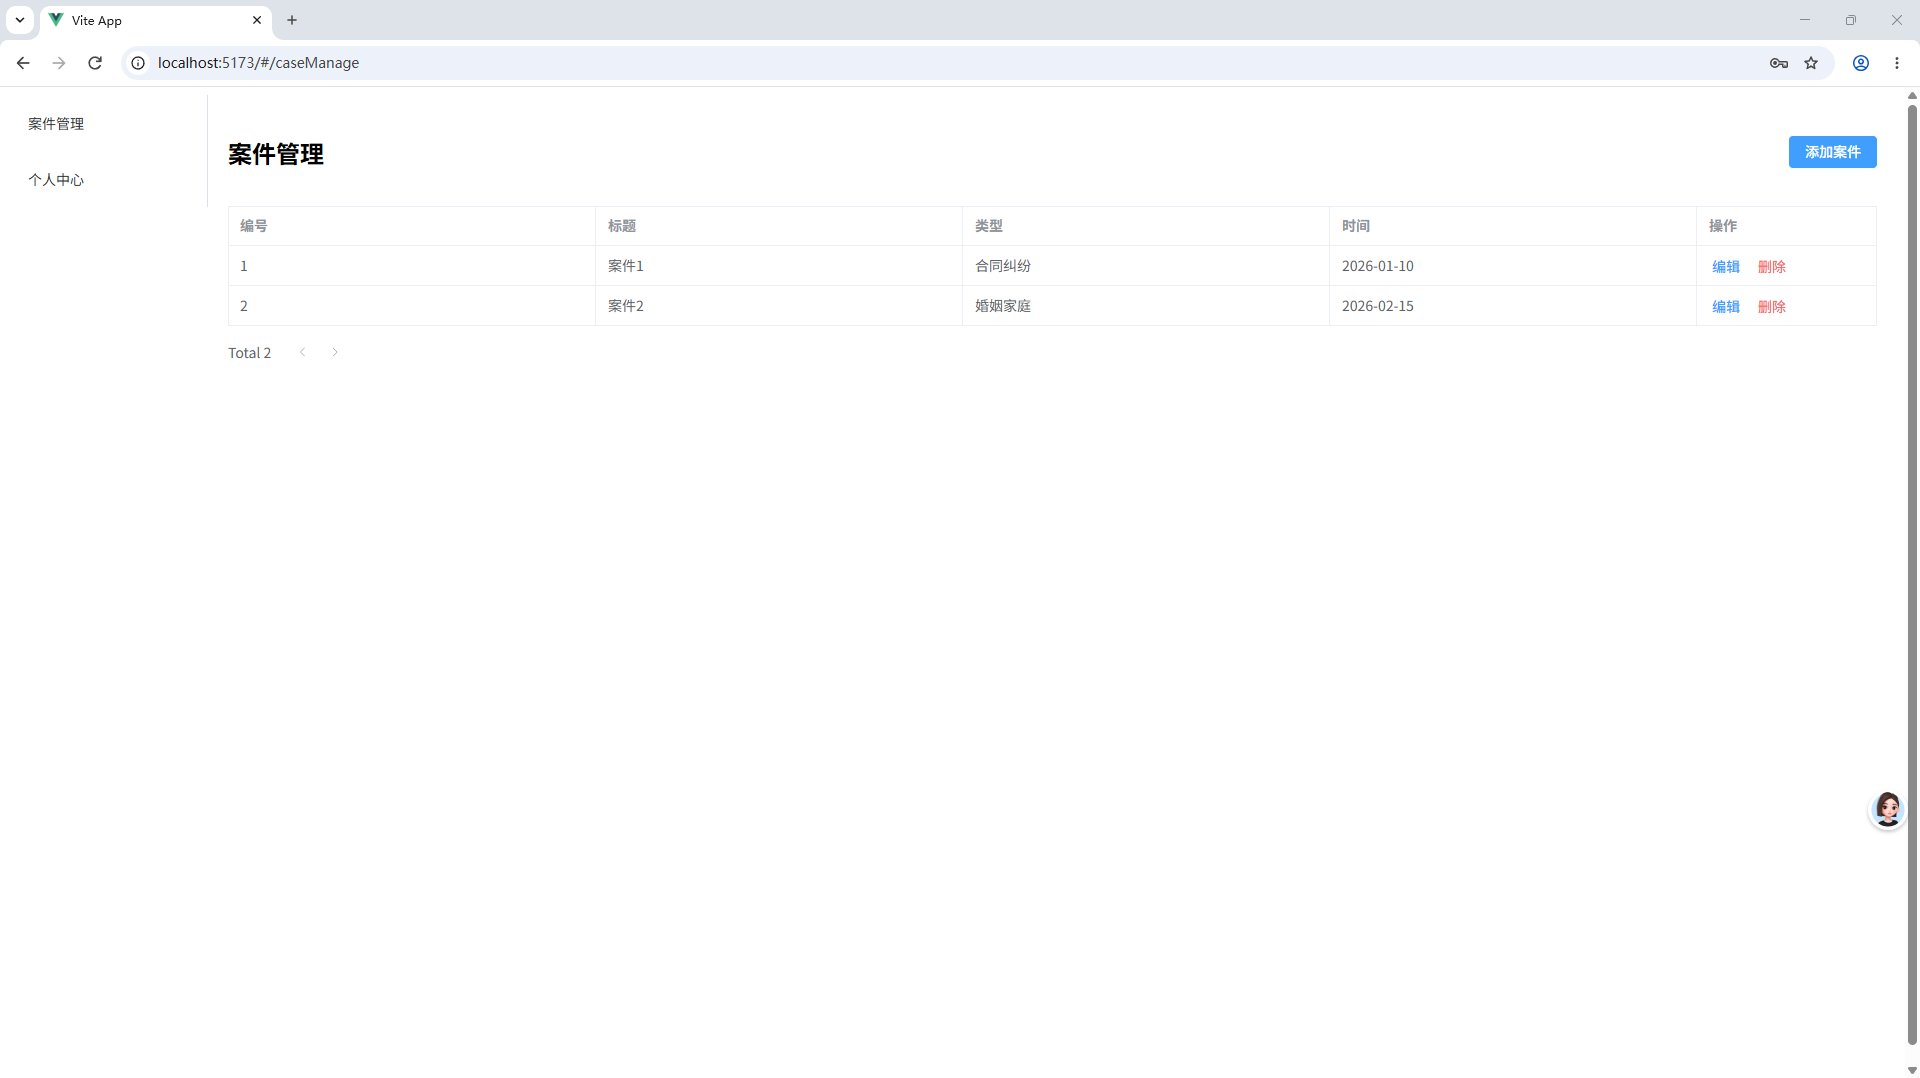
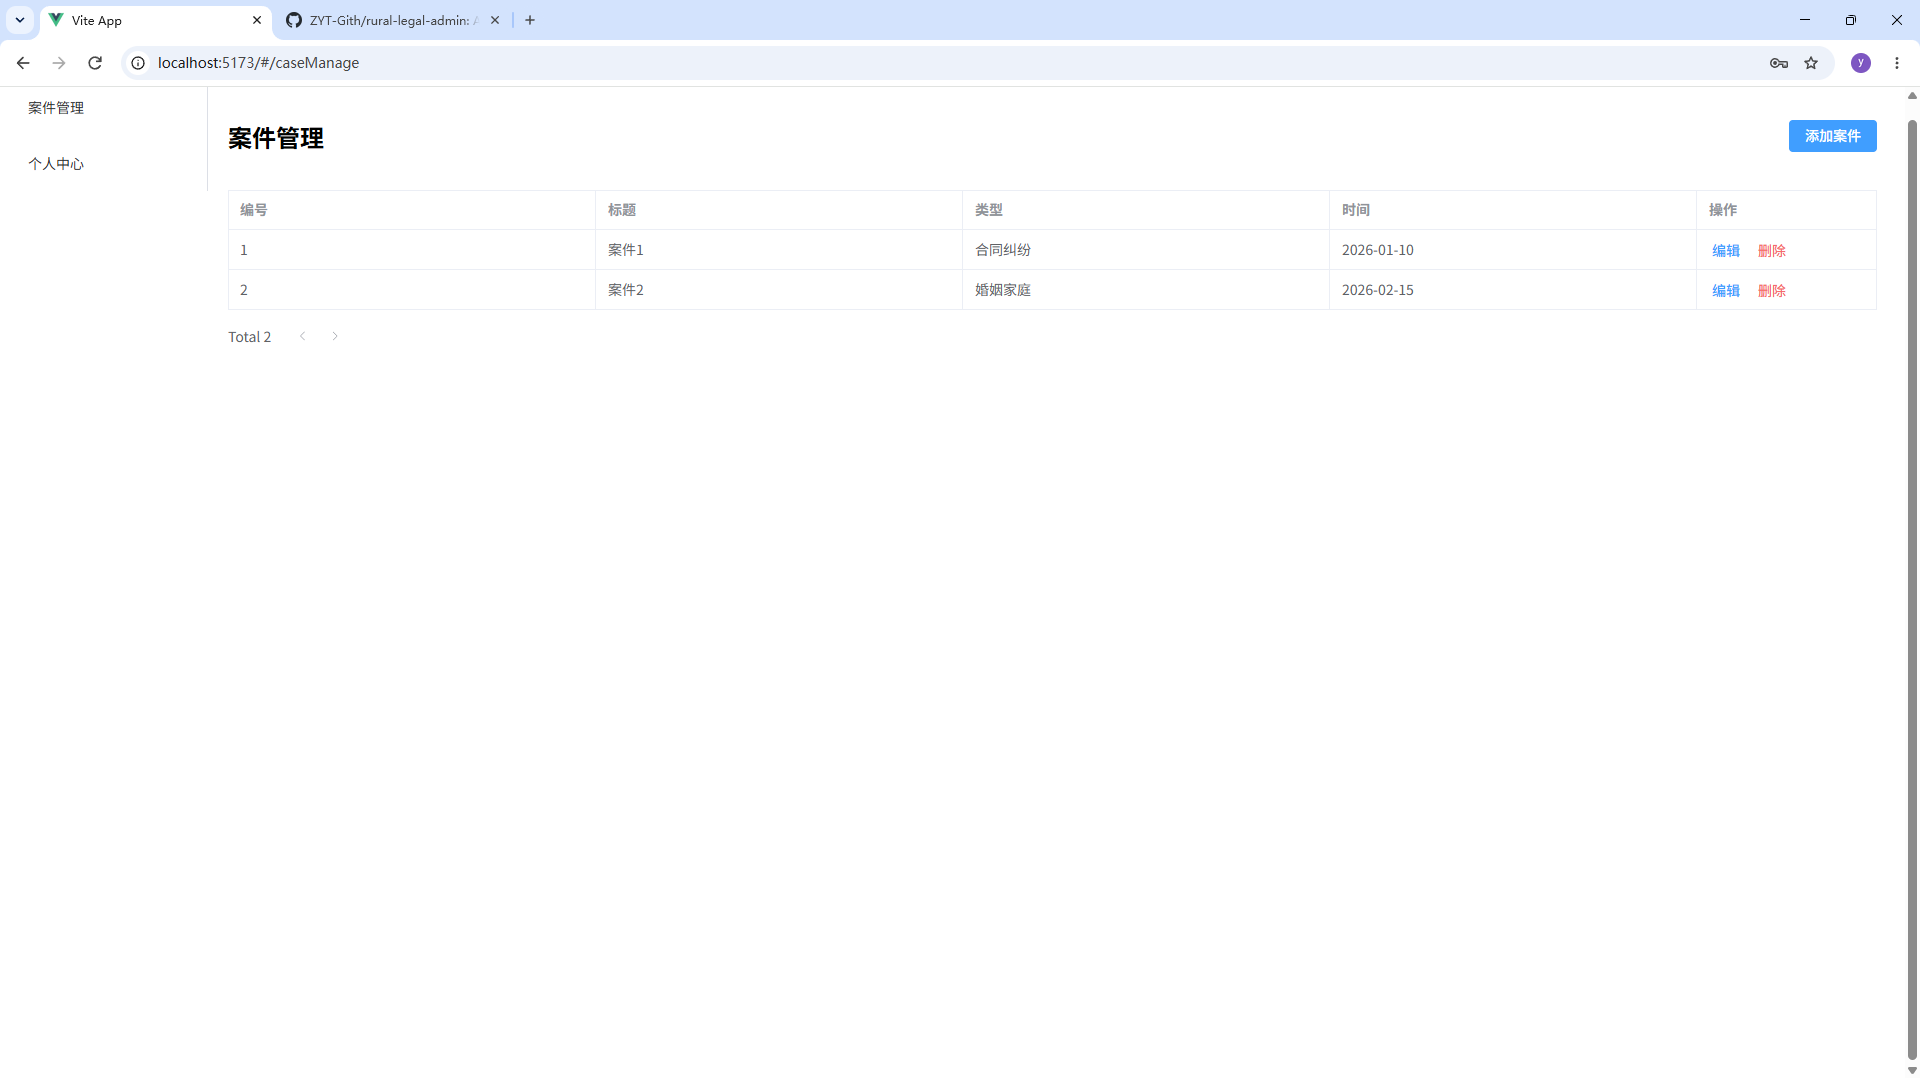
初始化项目：乡村法务后台管理系统，完成登录鉴权、案件CRUD、路由守卫,更新一下README.md

diff --git a/README.md b/README.md
@@ -55,6 +55,10 @@
 ### 案件管理列表
 ![案件管理列表](./screenshots/caseManage.png)
 
+### 案件管理列表
+![案件管理列表增加案件](./screenshots/caseManageAdd.png)
+
+
 ### 个人中心
 ![个人中心](./screenshots/profile.png)
 
@@ -71,15 +75,24 @@
    git clone https://github.com/your-username/rural-legal-admin.git
    cd rural-legal-admin
 安装依赖
+bash
+运行
 npm install
 运行开发服务器
+bash
+运行
 npm run dev
 测试账号：admin 密码：123456
 构建生产版本
+bash
+运行
 npm run build
 预览生产版本
+bash
+运行
 npm run preview
 项目结构
+plaintext
 src/
 ├── api/             # API 请求封装（预留后端对接）
 │   └── user.js      # 用户相关 API
